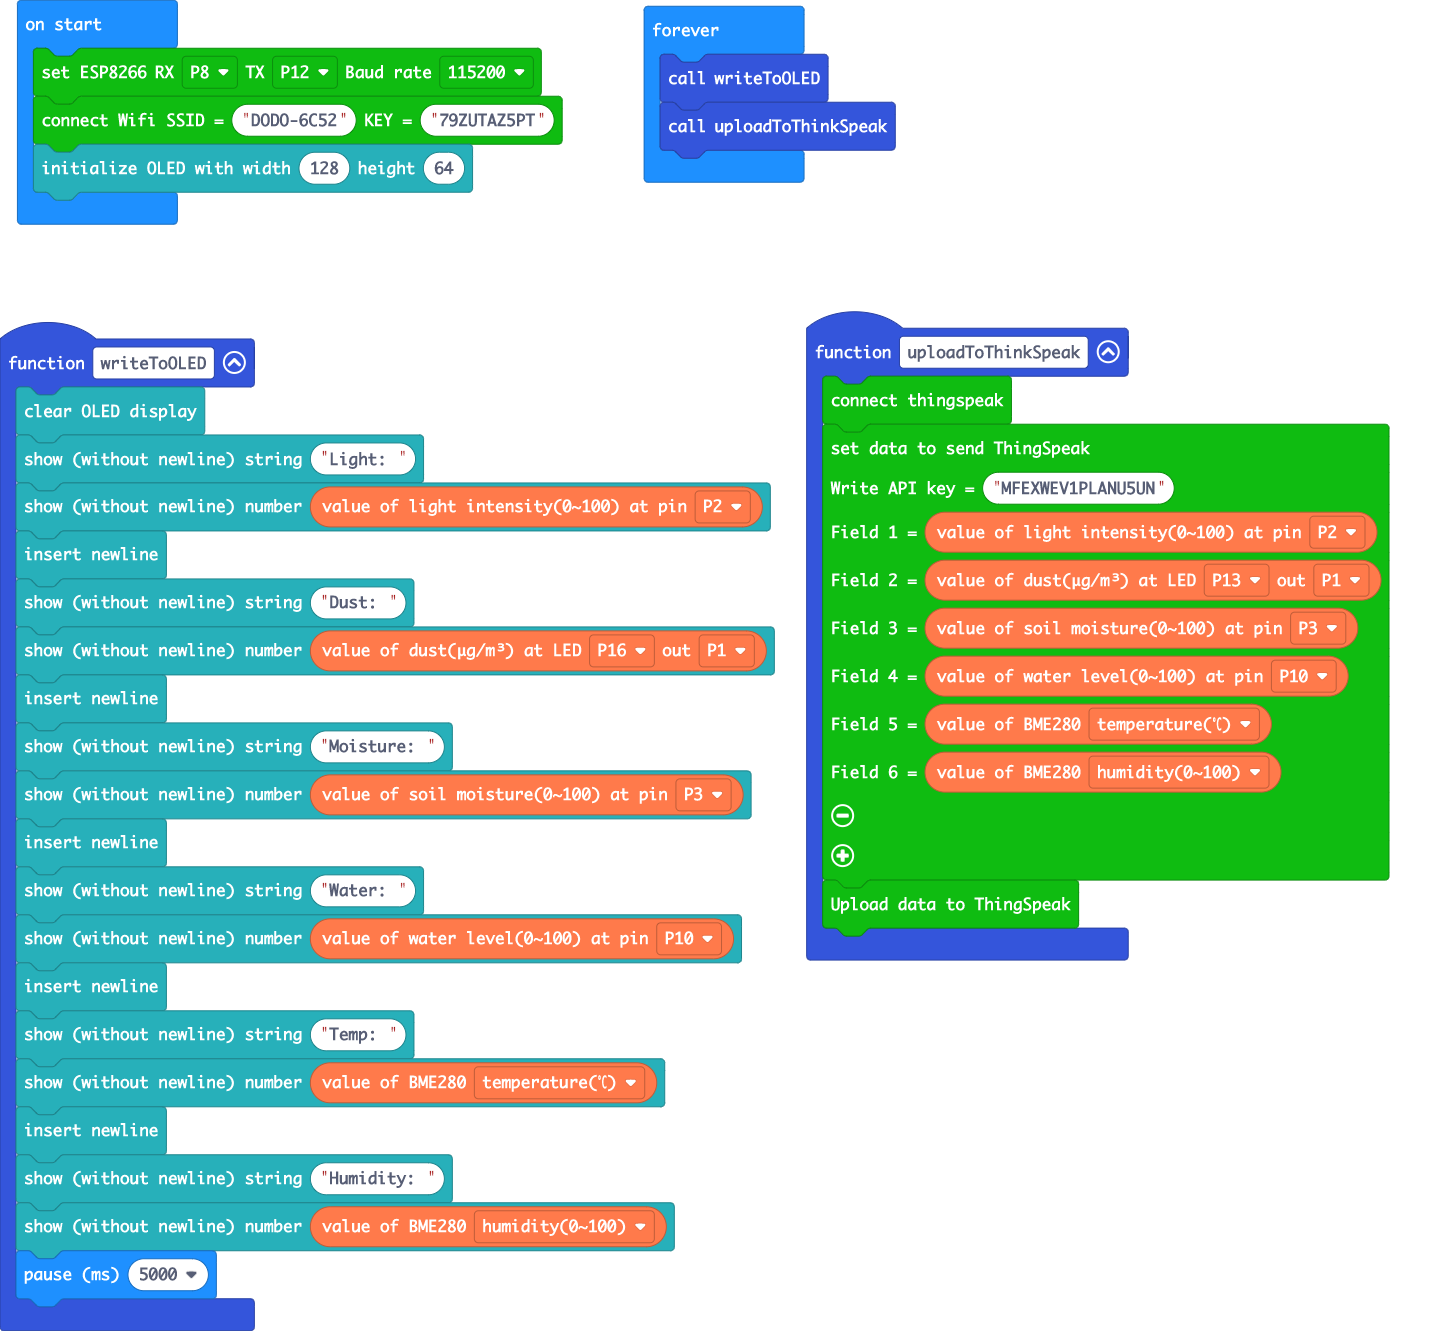
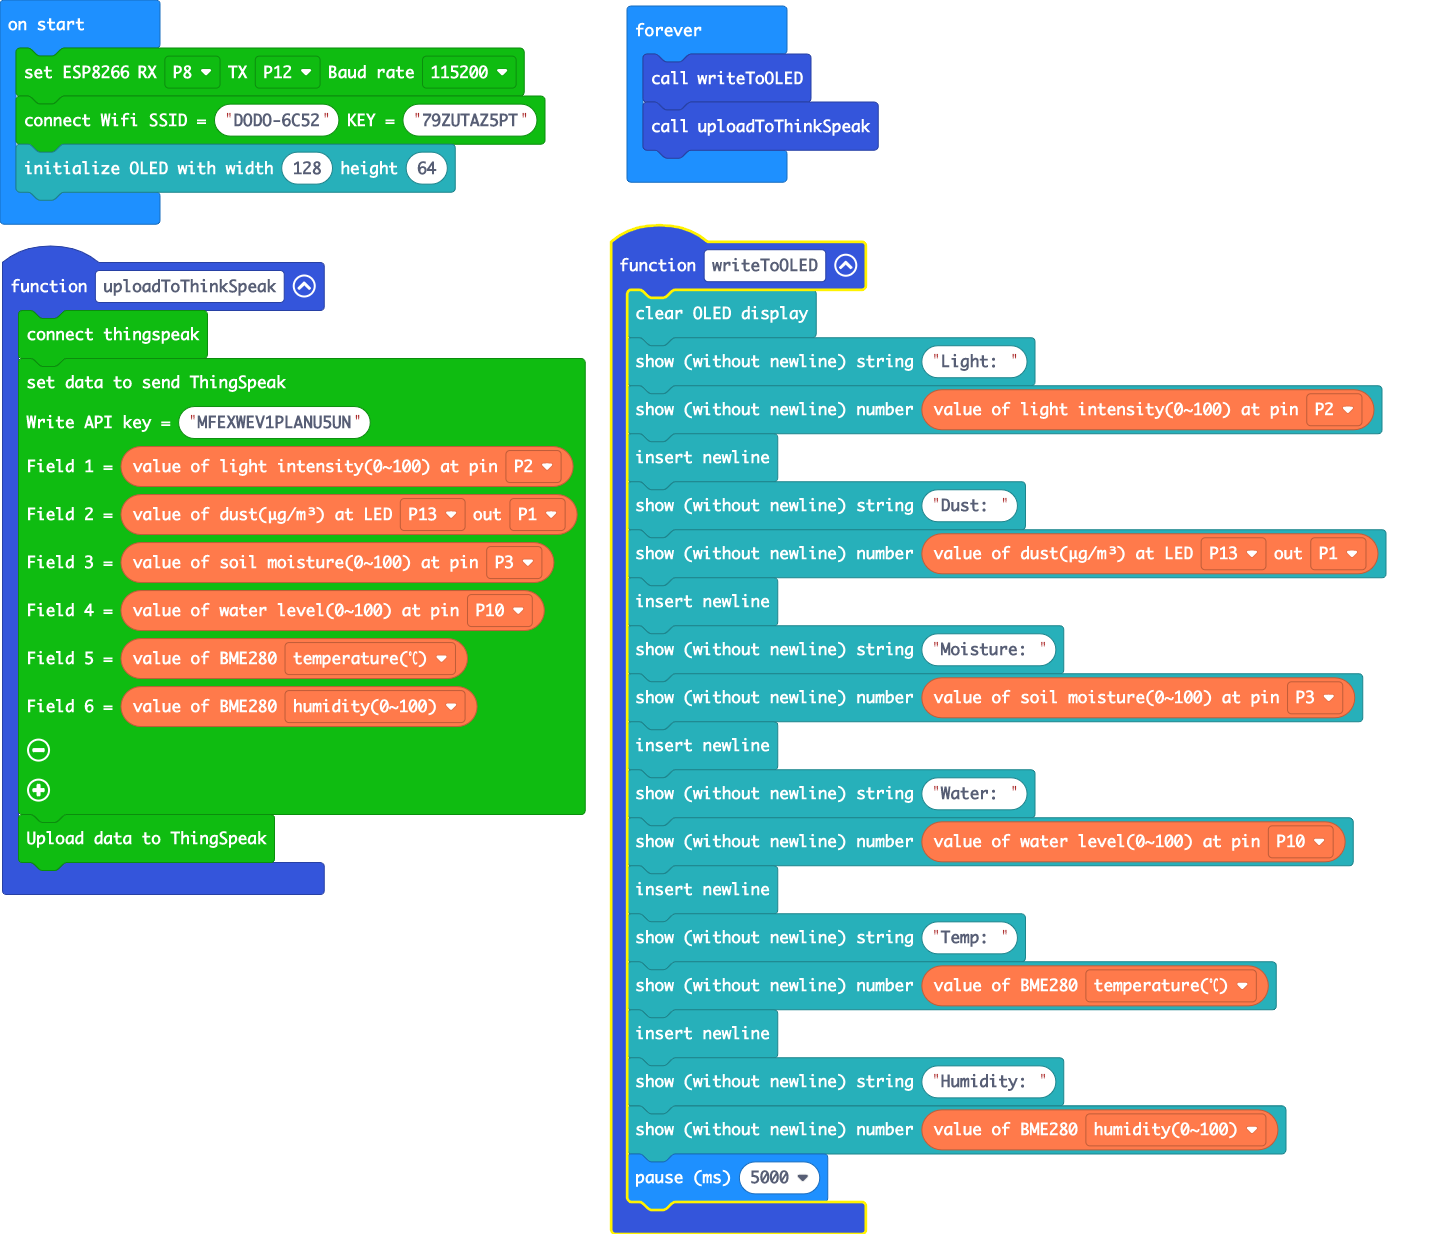
Update main.blocks, main.ts

diff --git a/main.ts b/main.ts
@@ -17,7 +17,7 @@ function writeToOLED () {
     OLED.writeNum(Environment.ReadLightIntensity(AnalogPin.P2))
     OLED.newLine()
     OLED.writeString("Dust: ")
-    OLED.writeNum(Environment.ReadDust(DigitalPin.P16, AnalogPin.P1))
+    OLED.writeNum(Environment.ReadDust(DigitalPin.P13, AnalogPin.P1))
     OLED.newLine()
     OLED.writeString("Moisture: ")
     OLED.writeNum(Environment.ReadSoilHumidity(AnalogPin.P3))
